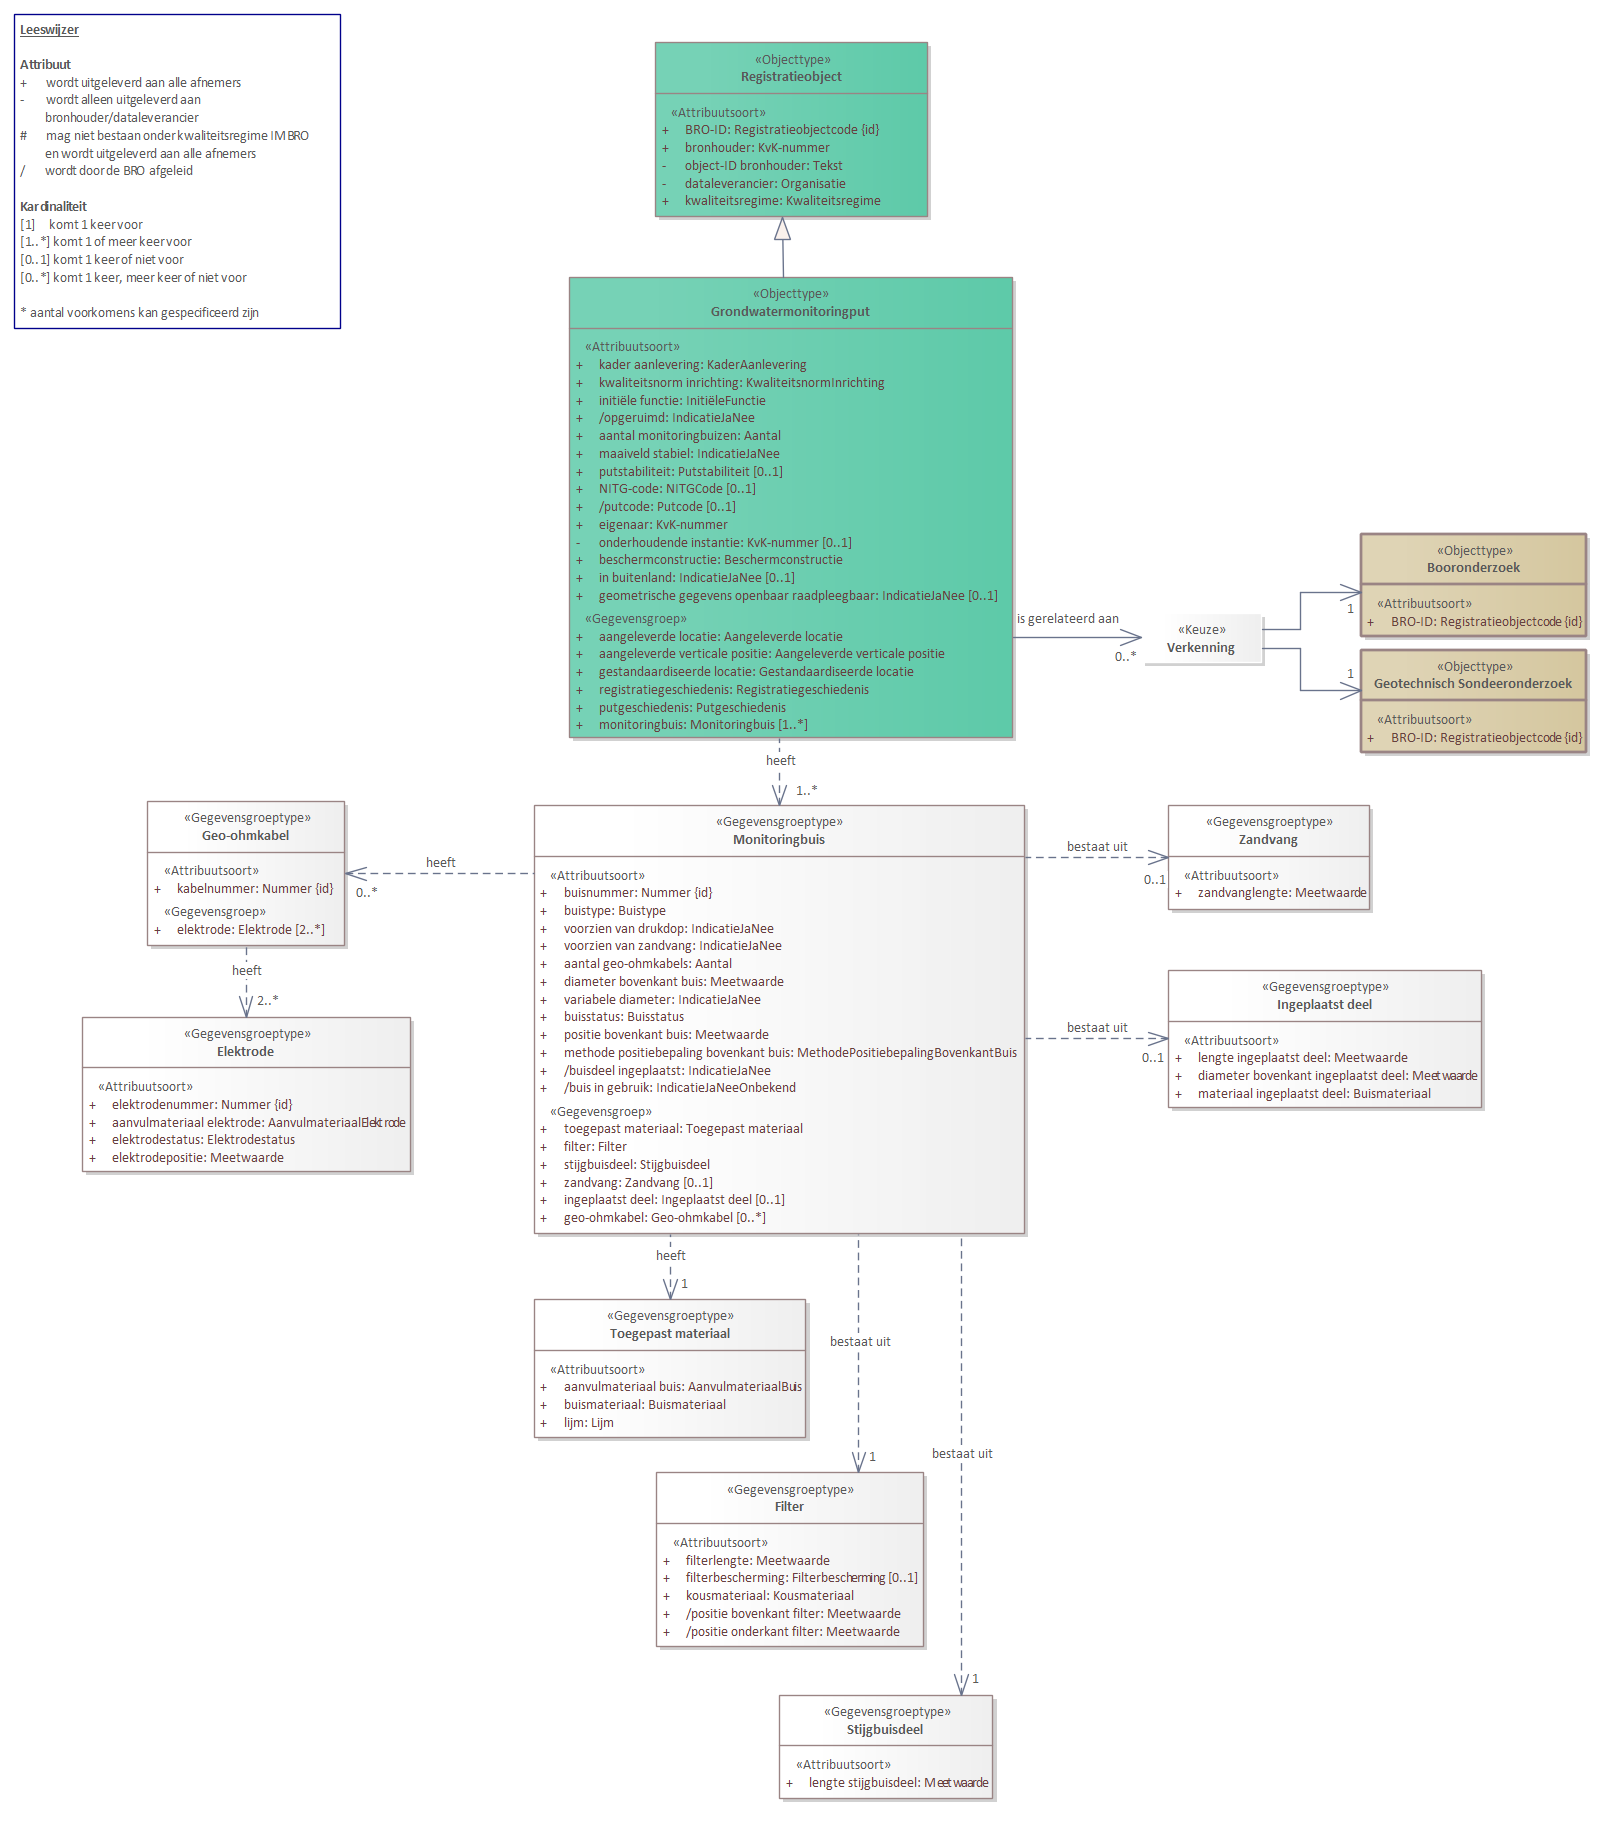
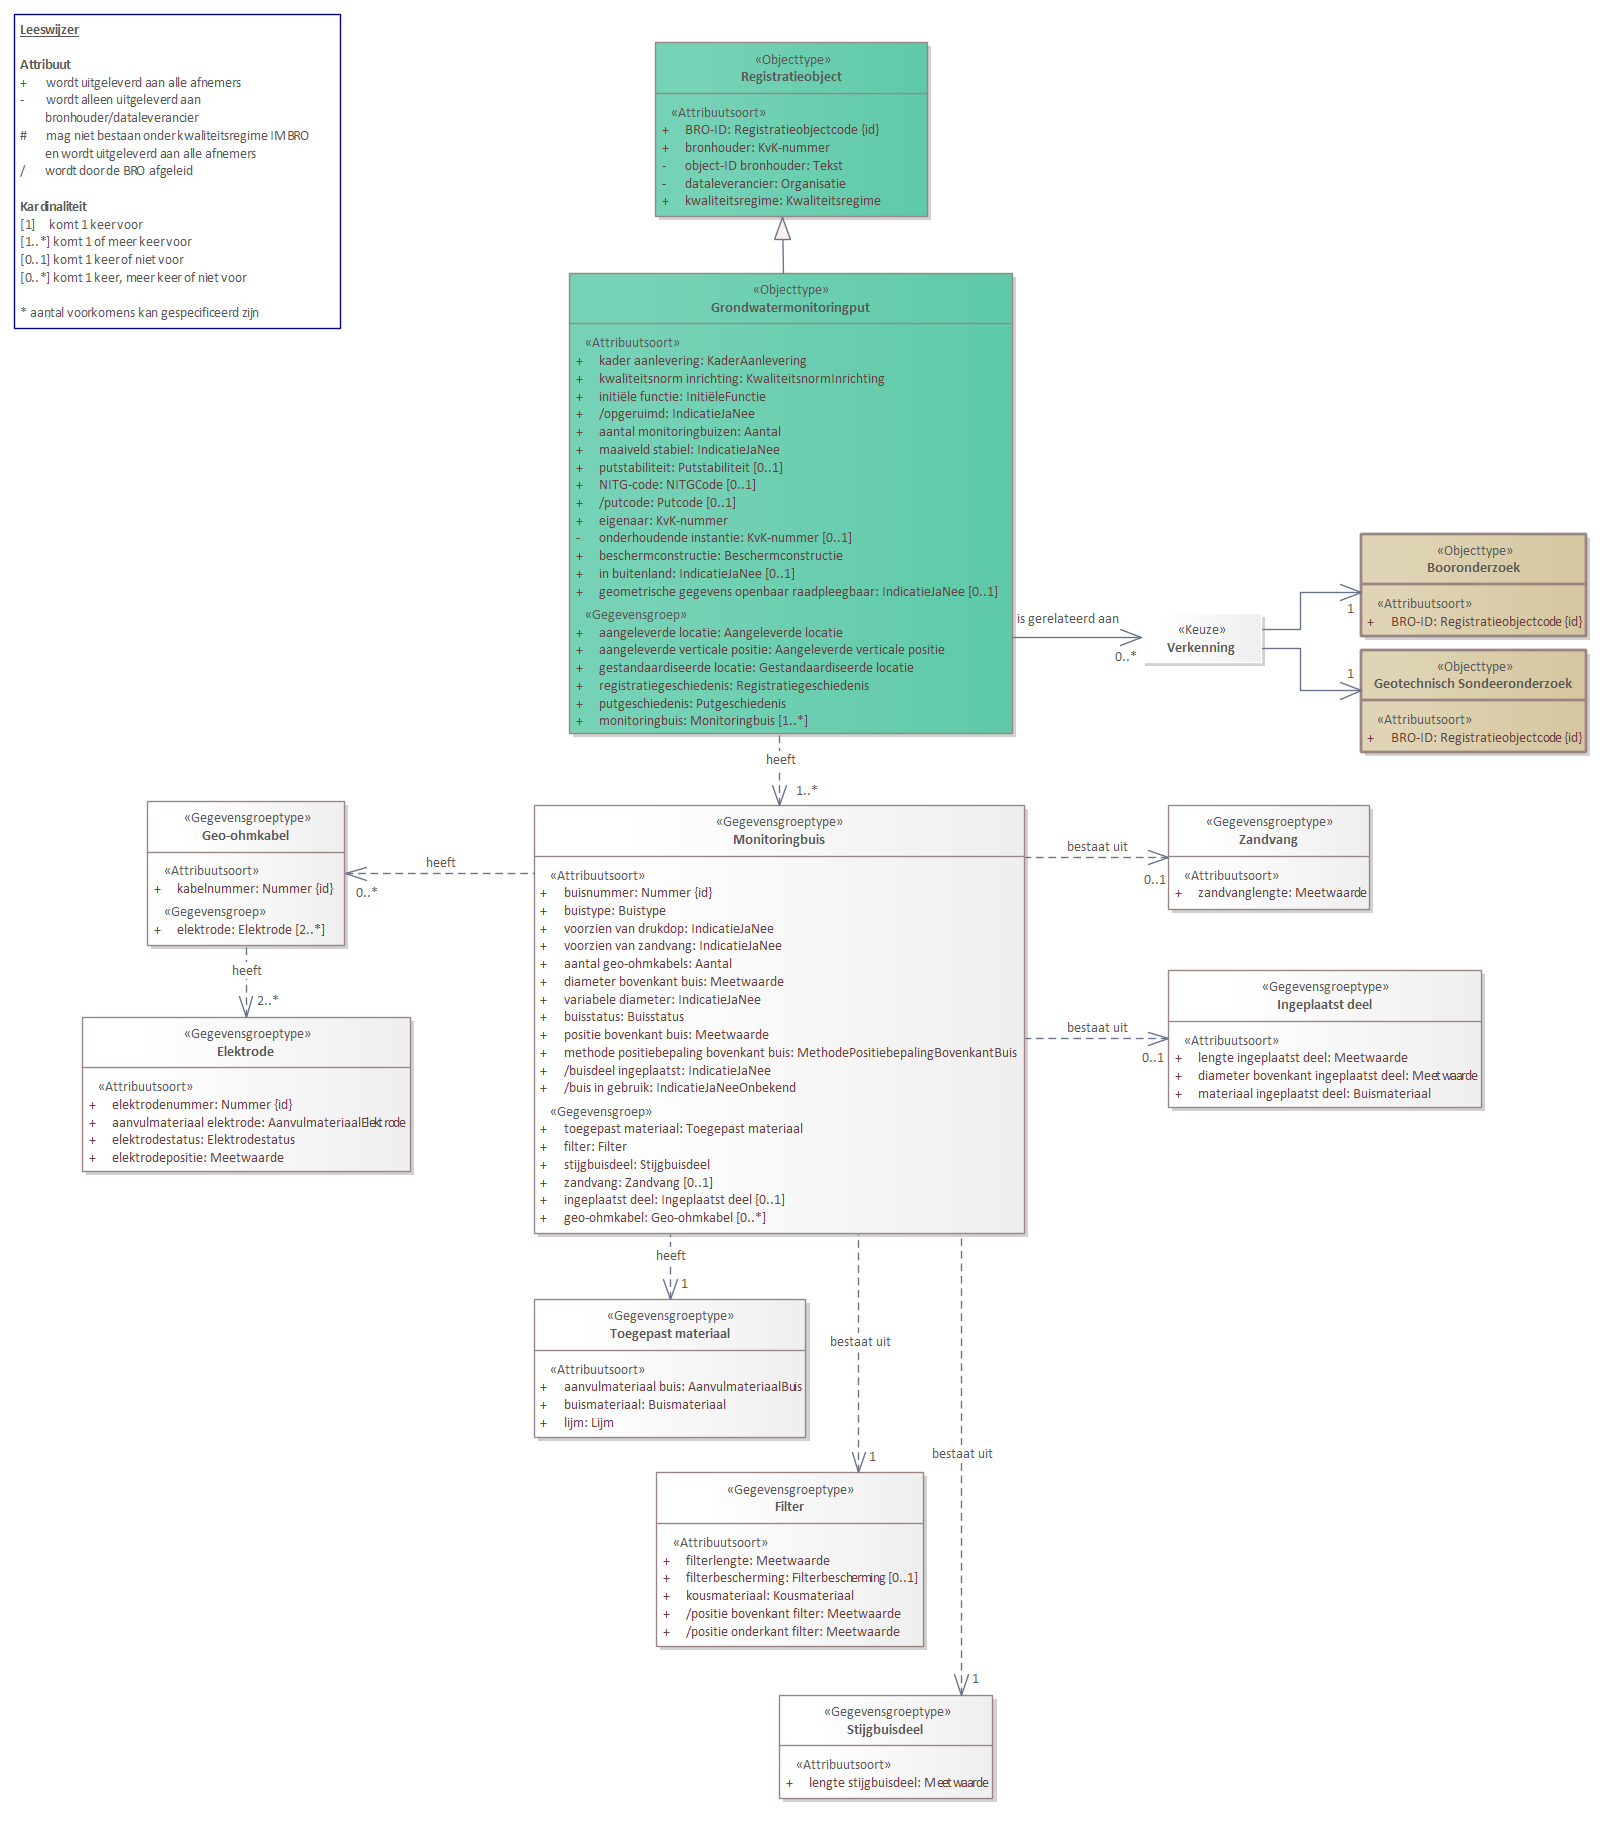
Conceptualmodel-GMWconceptueelMIM-1.1-3-20250630-20260507-152644

Changed region(s): [[0.3731, 0.1538, 0.6219, 0.4305]]

diff --git a/data/GMW-cat.msword.html b/data/GMW-cat.msword.html
@@ -6,13 +6,13 @@
                     table.list tbody tr th {background-color: #d3d3d3;}
                     table.list tbody tr th,
                     table.list tbody tr td {border: 1px solid black;}
-                </style></head><body><p>Conceptual model/GMW conceptueel MIM/20250630</p><p>Imvertor: Nightly-build.0</p><p>Model release: Conceptualmodel-GMWconceptueelMIM-1.1-3-20250630-20260507-150915</p><hr><section><h1>Artikel 1 Definitie van registratieobject, entiteiten en attributen</h1><section><h2>Registratieobject</h2><section id="global_class_Model_Registratieobject">
+                </style></head><body><p>Conceptual model/GMW conceptueel MIM/20250630</p><p>Imvertor: Nightly-build.0</p><p>Model release: Conceptualmodel-GMWconceptueelMIM-1.1-3-20250630-20260507-152644</p><hr><section><h1>Artikel 1 Definitie van registratieobject, entiteiten en attributen</h1><section><h2>Registratieobject</h2><section id="global_class_Model_Registratieobject">
                <table style="width: 100%;"><colgroup style="width: 30%;"></colgroup><colgroup style="width: 70%;"></colgroup><tbody><tr><th scope="row">Naam</th><td>Grondwatermonitoringput</td></tr><tr><th scope="row">Code</th><td>GMW</td></tr><tr><th scope="row">Definitie</th><td>
                         <p>Het geheel van gegevens dat betrekking heeft op een put die op een bepaald moment op een bepaalde locatie in of net buiten Nederland is ingericht om gedurende langere tijd waarnemingen aan het grondwater te kunnen doen.</p>
                      </td></tr><tr><th scope="row">Populatie</th><td>
                         <p>De populatie grondwatermonitoringputten in de registratie ondergrond omvat de putten die gebruikt worden of gaan worden in grondwatermonitoringnetten die door of in opdracht van een bestuursorgaan of drinkwaterbedrijf zijn ingesteld en die voldoen aan de criteria die in het besluit basisregistratie ondergrond zijn vastgelegd, alsook de putten die in soortgelijke historische netten zijn gebruikt. Ieder object heeft ter identificatie een eigen BRO-ID.</p>
                      </td></tr></tbody></table>
-            </section></section><section><h2>Het domeinmodel</h2><section><div class="imageinfo overview"><img id="img-EAID_E820AF53_7FB7_42e8_95C4_297D746526CE" src="Images/EAID_E820AF53_7FB7_42e8_95C4_297D746526CE.png" usemap="#imagemap-EAID_E820AF53_7FB7_42e8_95C4_297D746526CE" alt="Diagram: Grondwatermonitorput (GMW) - overzicht"><map name="imagemap-EAID_E820AF53_7FB7_42e8_95C4_297D746526CE"><area shape="rect" alt="Registratieobject" coords="655,42,928,217" href="#global_class_Model_Registratieobject"><area shape="rect" alt="Geotechnisch Sondeeronderzoek" coords="1361,650,1587,753" href="#global_class_Model_GeotechnischSondeeronderzoek"><area shape="rect" alt="Booronderzoek" coords="1361,534,1587,637" href="#global_class_Model_Booronderzoek"><area shape="rect" alt="Monitoringbuis" coords="534,805,1025,1234" href="#global_class_Model_Monitoringbuis"><area shape="rect" alt="Toegepast materiaal" coords="534,1299,806,1438" href="#global_class_Model_Toegepastmateriaal"><area shape="rect" alt="Ingeplaatst deel" coords="1168,970,1482,1108" href="#global_class_Model_Ingeplaatstdeel"><area shape="rect" alt="Zandvang" coords="1168,805,1370,910" href="#global_class_Model_Zandvang"><area shape="rect" alt="Grondwatermonitoringput" coords="569,277,1013,738" href="#global_class_Model_Grondwatermonitoringput"><area shape="rect" alt="Geo-ohmkabel" coords="147,801,345,946" href="#global_class_Model_Geoohmkabel"><area shape="rect" alt="Filter" coords="656,1472,924,1647" href="#global_class_Model_Filter"><area shape="rect" alt="Elektrode" coords="82,1017,411,1172" href="#global_class_Model_Elektrode"><area shape="rect" alt="Stijgbuisdeel" coords="779,1695,993,1799" href="#global_class_Model_Stijgbuisdeel"></map><p><b>Grondwatermonitorput (GMW)</b>
+            </section></section><section><h2>Het domeinmodel</h2><section><div class="imageinfo overview"><img id="img-EAID_E820AF53_7FB7_42e8_95C4_297D746526CE" src="Images/EAID_E820AF53_7FB7_42e8_95C4_297D746526CE.png" usemap="#imagemap-EAID_E820AF53_7FB7_42e8_95C4_297D746526CE" alt="Diagram: Grondwatermonitorput (GMW) - overzicht"><map name="imagemap-EAID_E820AF53_7FB7_42e8_95C4_297D746526CE"><area shape="rect" alt="Registratieobject" coords="655,42,928,217" href="#global_class_Model_Registratieobject"><area shape="rect" alt="Geotechnisch Sondeeronderzoek" coords="1361,650,1587,753" href="#global_class_Model_GeotechnischSondeeronderzoek"><area shape="rect" alt="Booronderzoek" coords="1361,534,1587,637" href="#global_class_Model_Booronderzoek"><area shape="rect" alt="Monitoringbuis" coords="534,805,1025,1234" href="#global_class_Model_Monitoringbuis"><area shape="rect" alt="Toegepast materiaal" coords="534,1299,806,1438" href="#global_class_Model_Toegepastmateriaal"><area shape="rect" alt="Ingeplaatst deel" coords="1168,970,1482,1108" href="#global_class_Model_Ingeplaatstdeel"><area shape="rect" alt="Zandvang" coords="1168,805,1370,910" href="#global_class_Model_Zandvang"><area shape="rect" alt="Grondwatermonitoringput" coords="569,273,1013,734" href="#global_class_Model_Grondwatermonitoringput"><area shape="rect" alt="Geo-ohmkabel" coords="147,801,345,946" href="#global_class_Model_Geoohmkabel"><area shape="rect" alt="Filter" coords="656,1472,924,1647" href="#global_class_Model_Filter"><area shape="rect" alt="Elektrode" coords="82,1017,411,1172" href="#global_class_Model_Elektrode"><area shape="rect" alt="Stijgbuisdeel" coords="779,1695,993,1799" href="#global_class_Model_Stijgbuisdeel"></map><p><b>Grondwatermonitorput (GMW)</b>
                         <p></p>
                      </p></div></section></section><section><h2>Entiteiten en attributen</h2><section><section id="global_class_Model_Grondwatermonitoringput"><h3>   Grondwatermonitoringput</h3><div class="imageinfo "><img id="img-EAID_E2F8B220_F519_4d40_95F0_A8B809943E17" src="Images/EAID_E2F8B220_F519_4d40_95F0_A8B809943E17.png" usemap="#imagemap-EAID_E2F8B220_F519_4d40_95F0_A8B809943E17" alt="Diagram: Grondwatermonitoringput - detail"><map name="imagemap-EAID_E2F8B220_F519_4d40_95F0_A8B809943E17"><area shape="rect" alt="Monitoringbuis" coords="478,599,643,659" href="#global_class_Model_Monitoringbuis"><area shape="rect" alt="Putgeschiedenis" coords="14,348,368,510" href="#global_class_Model_Putgeschiedenis"><area shape="rect" alt="Registratiegeschiedenis" coords="14,14,368,312" href="#global_class_Model_Registratiegeschiedenis"><area shape="rect" alt="Gestandaardiseerde locatie" coords="902,373,1325,512" href="#global_class_Model_Gestandaardiseerdelocatie"><area shape="rect" alt="Aangeleverde verticale positie" coords="902,176,1325,351" href="#global_class_Model_Aangeleverdeverticalepositie"><area shape="rect" alt="Aangeleverde locatie" coords="902,15,1325,154" href="#global_class_Model_Aangeleverdelocatie"><area shape="rect" alt="Grondwatermonitoringput" coords="437,15,867,512" href="#global_class_Model_Grondwatermonitoringput"></map></div><table style="width: 100%;"><colgroup style="width: 30%;"></colgroup><colgroup style="width: 70%;"></colgroup><tbody><tr><th scope="row">Type gegeven</th><td>Entiteit</td></tr><tr><th scope="row">Definitie</th><td>
                         <p>De gegevens die de grondwatermonitoringput identificeren en inzicht geven in de geschiedenis van het object voorafgaand aan opname in de registratie ondergrond, met een aantal eigenschappen die de put als geheel karakteriseren.</p>

diff --git a/data/GMW-cat.respec.html b/data/GMW-cat.respec.html
@@ -4,7 +4,7 @@
                      </td></tr><tr><th scope="row">Populatie</th><td>
                         <p>De populatie grondwatermonitoringputten in de registratie ondergrond omvat de putten die gebruikt worden of gaan worden in grondwatermonitoringnetten die door of in opdracht van een bestuursorgaan of drinkwaterbedrijf zijn ingesteld en die voldoen aan de criteria die in het besluit basisregistratie ondergrond zijn vastgelegd, alsook de putten die in soortgelijke historische netten zijn gebruikt. Ieder object heeft ter identificatie een eigen BRO-ID.</p>
                      </td></tr></tbody></table>
-            </section><section><h2>Het domeinmodel   </h2><div class="imageinfo overview"><img id="img-EAID_E820AF53_7FB7_42e8_95C4_297D746526CE" src="data/Images/EAID_E820AF53_7FB7_42e8_95C4_297D746526CE.png" usemap="#imagemap-EAID_E820AF53_7FB7_42e8_95C4_297D746526CE" alt="Diagram: Grondwatermonitorput (GMW) - overzicht"><map name="imagemap-EAID_E820AF53_7FB7_42e8_95C4_297D746526CE"><area shape="rect" alt="Registratieobject" coords="655,42,928,217" href="#global_class_Model_Registratieobject"><area shape="rect" alt="Geotechnisch Sondeeronderzoek" coords="1361,650,1587,753" href="#global_class_Model_GeotechnischSondeeronderzoek"><area shape="rect" alt="Booronderzoek" coords="1361,534,1587,637" href="#global_class_Model_Booronderzoek"><area shape="rect" alt="Monitoringbuis" coords="534,805,1025,1234" href="#global_class_Model_Monitoringbuis"><area shape="rect" alt="Toegepast materiaal" coords="534,1299,806,1438" href="#global_class_Model_Toegepastmateriaal"><area shape="rect" alt="Ingeplaatst deel" coords="1168,970,1482,1108" href="#global_class_Model_Ingeplaatstdeel"><area shape="rect" alt="Zandvang" coords="1168,805,1370,910" href="#global_class_Model_Zandvang"><area shape="rect" alt="Grondwatermonitoringput" coords="569,277,1013,738" href="#global_class_Model_Grondwatermonitoringput"><area shape="rect" alt="Geo-ohmkabel" coords="147,801,345,946" href="#global_class_Model_Geoohmkabel"><area shape="rect" alt="Filter" coords="656,1472,924,1647" href="#global_class_Model_Filter"><area shape="rect" alt="Elektrode" coords="82,1017,411,1172" href="#global_class_Model_Elektrode"><area shape="rect" alt="Stijgbuisdeel" coords="779,1695,993,1799" href="#global_class_Model_Stijgbuisdeel"></map><p><b>Grondwatermonitorput (GMW)</b>
+            </section><section><h2>Het domeinmodel   </h2><div class="imageinfo overview"><img id="img-EAID_E820AF53_7FB7_42e8_95C4_297D746526CE" src="data/Images/EAID_E820AF53_7FB7_42e8_95C4_297D746526CE.png" usemap="#imagemap-EAID_E820AF53_7FB7_42e8_95C4_297D746526CE" alt="Diagram: Grondwatermonitorput (GMW) - overzicht"><map name="imagemap-EAID_E820AF53_7FB7_42e8_95C4_297D746526CE"><area shape="rect" alt="Registratieobject" coords="655,42,928,217" href="#global_class_Model_Registratieobject"><area shape="rect" alt="Geotechnisch Sondeeronderzoek" coords="1361,650,1587,753" href="#global_class_Model_GeotechnischSondeeronderzoek"><area shape="rect" alt="Booronderzoek" coords="1361,534,1587,637" href="#global_class_Model_Booronderzoek"><area shape="rect" alt="Monitoringbuis" coords="534,805,1025,1234" href="#global_class_Model_Monitoringbuis"><area shape="rect" alt="Toegepast materiaal" coords="534,1299,806,1438" href="#global_class_Model_Toegepastmateriaal"><area shape="rect" alt="Ingeplaatst deel" coords="1168,970,1482,1108" href="#global_class_Model_Ingeplaatstdeel"><area shape="rect" alt="Zandvang" coords="1168,805,1370,910" href="#global_class_Model_Zandvang"><area shape="rect" alt="Grondwatermonitoringput" coords="569,273,1013,734" href="#global_class_Model_Grondwatermonitoringput"><area shape="rect" alt="Geo-ohmkabel" coords="147,801,345,946" href="#global_class_Model_Geoohmkabel"><area shape="rect" alt="Filter" coords="656,1472,924,1647" href="#global_class_Model_Filter"><area shape="rect" alt="Elektrode" coords="82,1017,411,1172" href="#global_class_Model_Elektrode"><area shape="rect" alt="Stijgbuisdeel" coords="779,1695,993,1799" href="#global_class_Model_Stijgbuisdeel"></map><p><b>Grondwatermonitorput (GMW)</b>
                         <p></p>
                      </p></div></section><section><h2>Entiteittypen en attributen   </h2><section id="global_class_Model_Grondwatermonitoringput"><h3>   Grondwatermonitoringput</h3><div class="imageinfo "><img id="img-EAID_E2F8B220_F519_4d40_95F0_A8B809943E17" src="data/Images/EAID_E2F8B220_F519_4d40_95F0_A8B809943E17.png" usemap="#imagemap-EAID_E2F8B220_F519_4d40_95F0_A8B809943E17" alt="Diagram: Grondwatermonitoringput - detail"><map name="imagemap-EAID_E2F8B220_F519_4d40_95F0_A8B809943E17"><area shape="rect" alt="Monitoringbuis" coords="478,599,643,659" href="#global_class_Model_Monitoringbuis"><area shape="rect" alt="Putgeschiedenis" coords="14,348,368,510" href="#global_class_Model_Putgeschiedenis"><area shape="rect" alt="Registratiegeschiedenis" coords="14,14,368,312" href="#global_class_Model_Registratiegeschiedenis"><area shape="rect" alt="Gestandaardiseerde locatie" coords="902,373,1325,512" href="#global_class_Model_Gestandaardiseerdelocatie"><area shape="rect" alt="Aangeleverde verticale positie" coords="902,176,1325,351" href="#global_class_Model_Aangeleverdeverticalepositie"><area shape="rect" alt="Aangeleverde locatie" coords="902,15,1325,154" href="#global_class_Model_Aangeleverdelocatie"><area shape="rect" alt="Grondwatermonitoringput" coords="437,15,867,512" href="#global_class_Model_Grondwatermonitoringput"></map></div><table style="width: 100%;"><colgroup style="width: 30%;"></colgroup><colgroup style="width: 70%;"></colgroup><tbody><tr><th scope="row">Type gegeven</th><td>Entiteit</td></tr><tr><th scope="row">Definitie</th><td>
                         <p>De gegevens die de grondwatermonitoringput identificeren en inzicht geven in de geschiedenis van het object voorafgaand aan opname in de registratie ondergrond, met een aantal eigenschappen die de put als geheel karakteriseren.</p>
